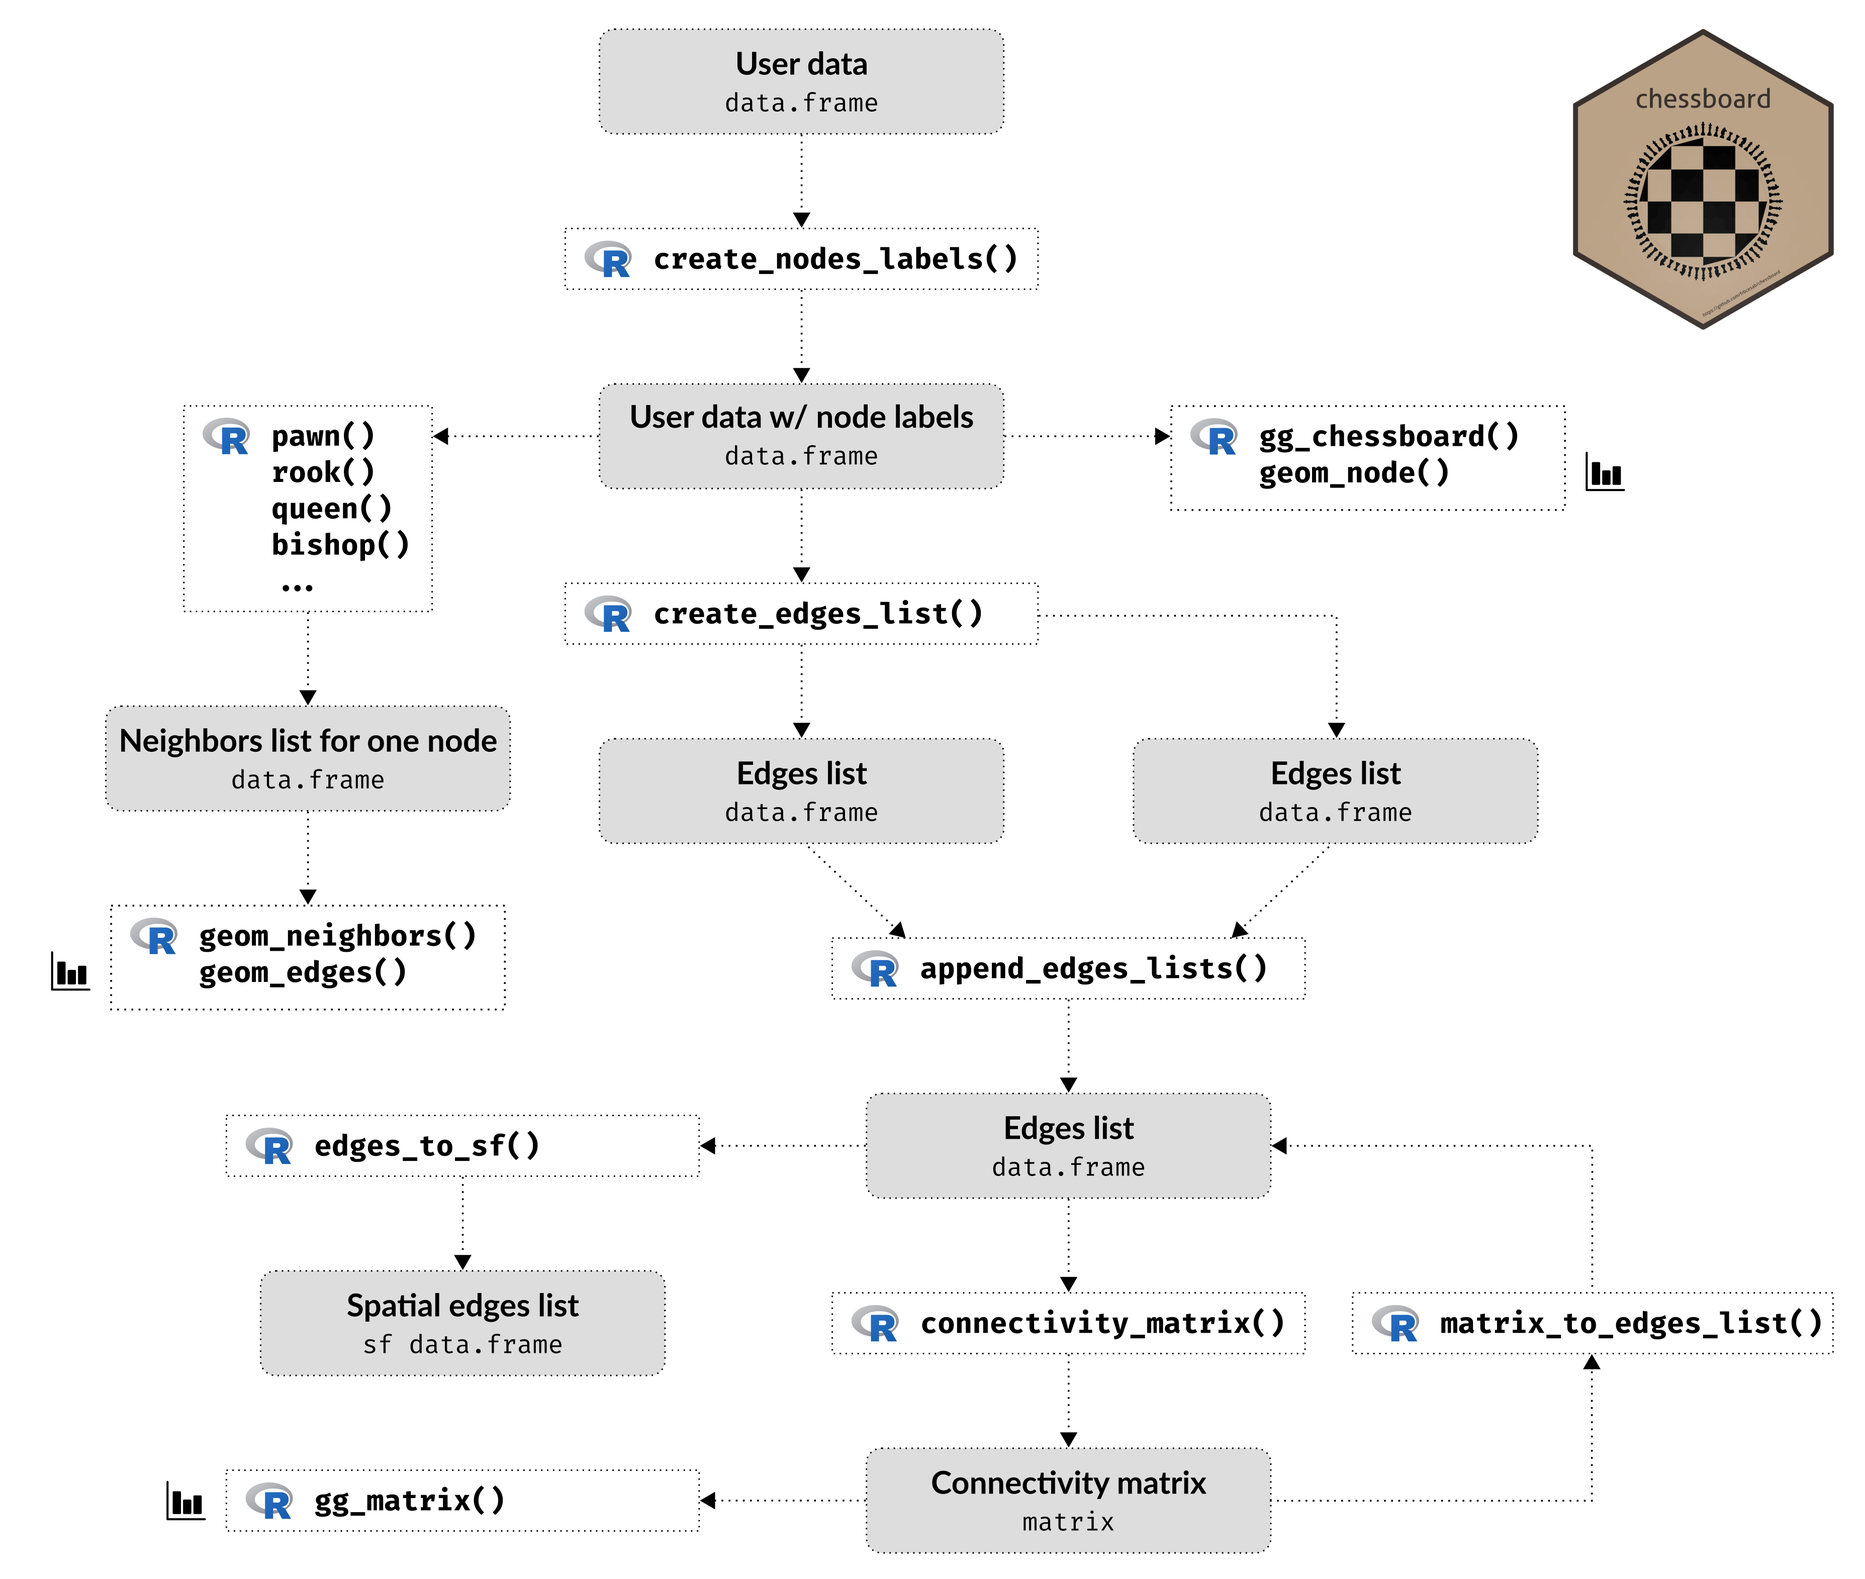
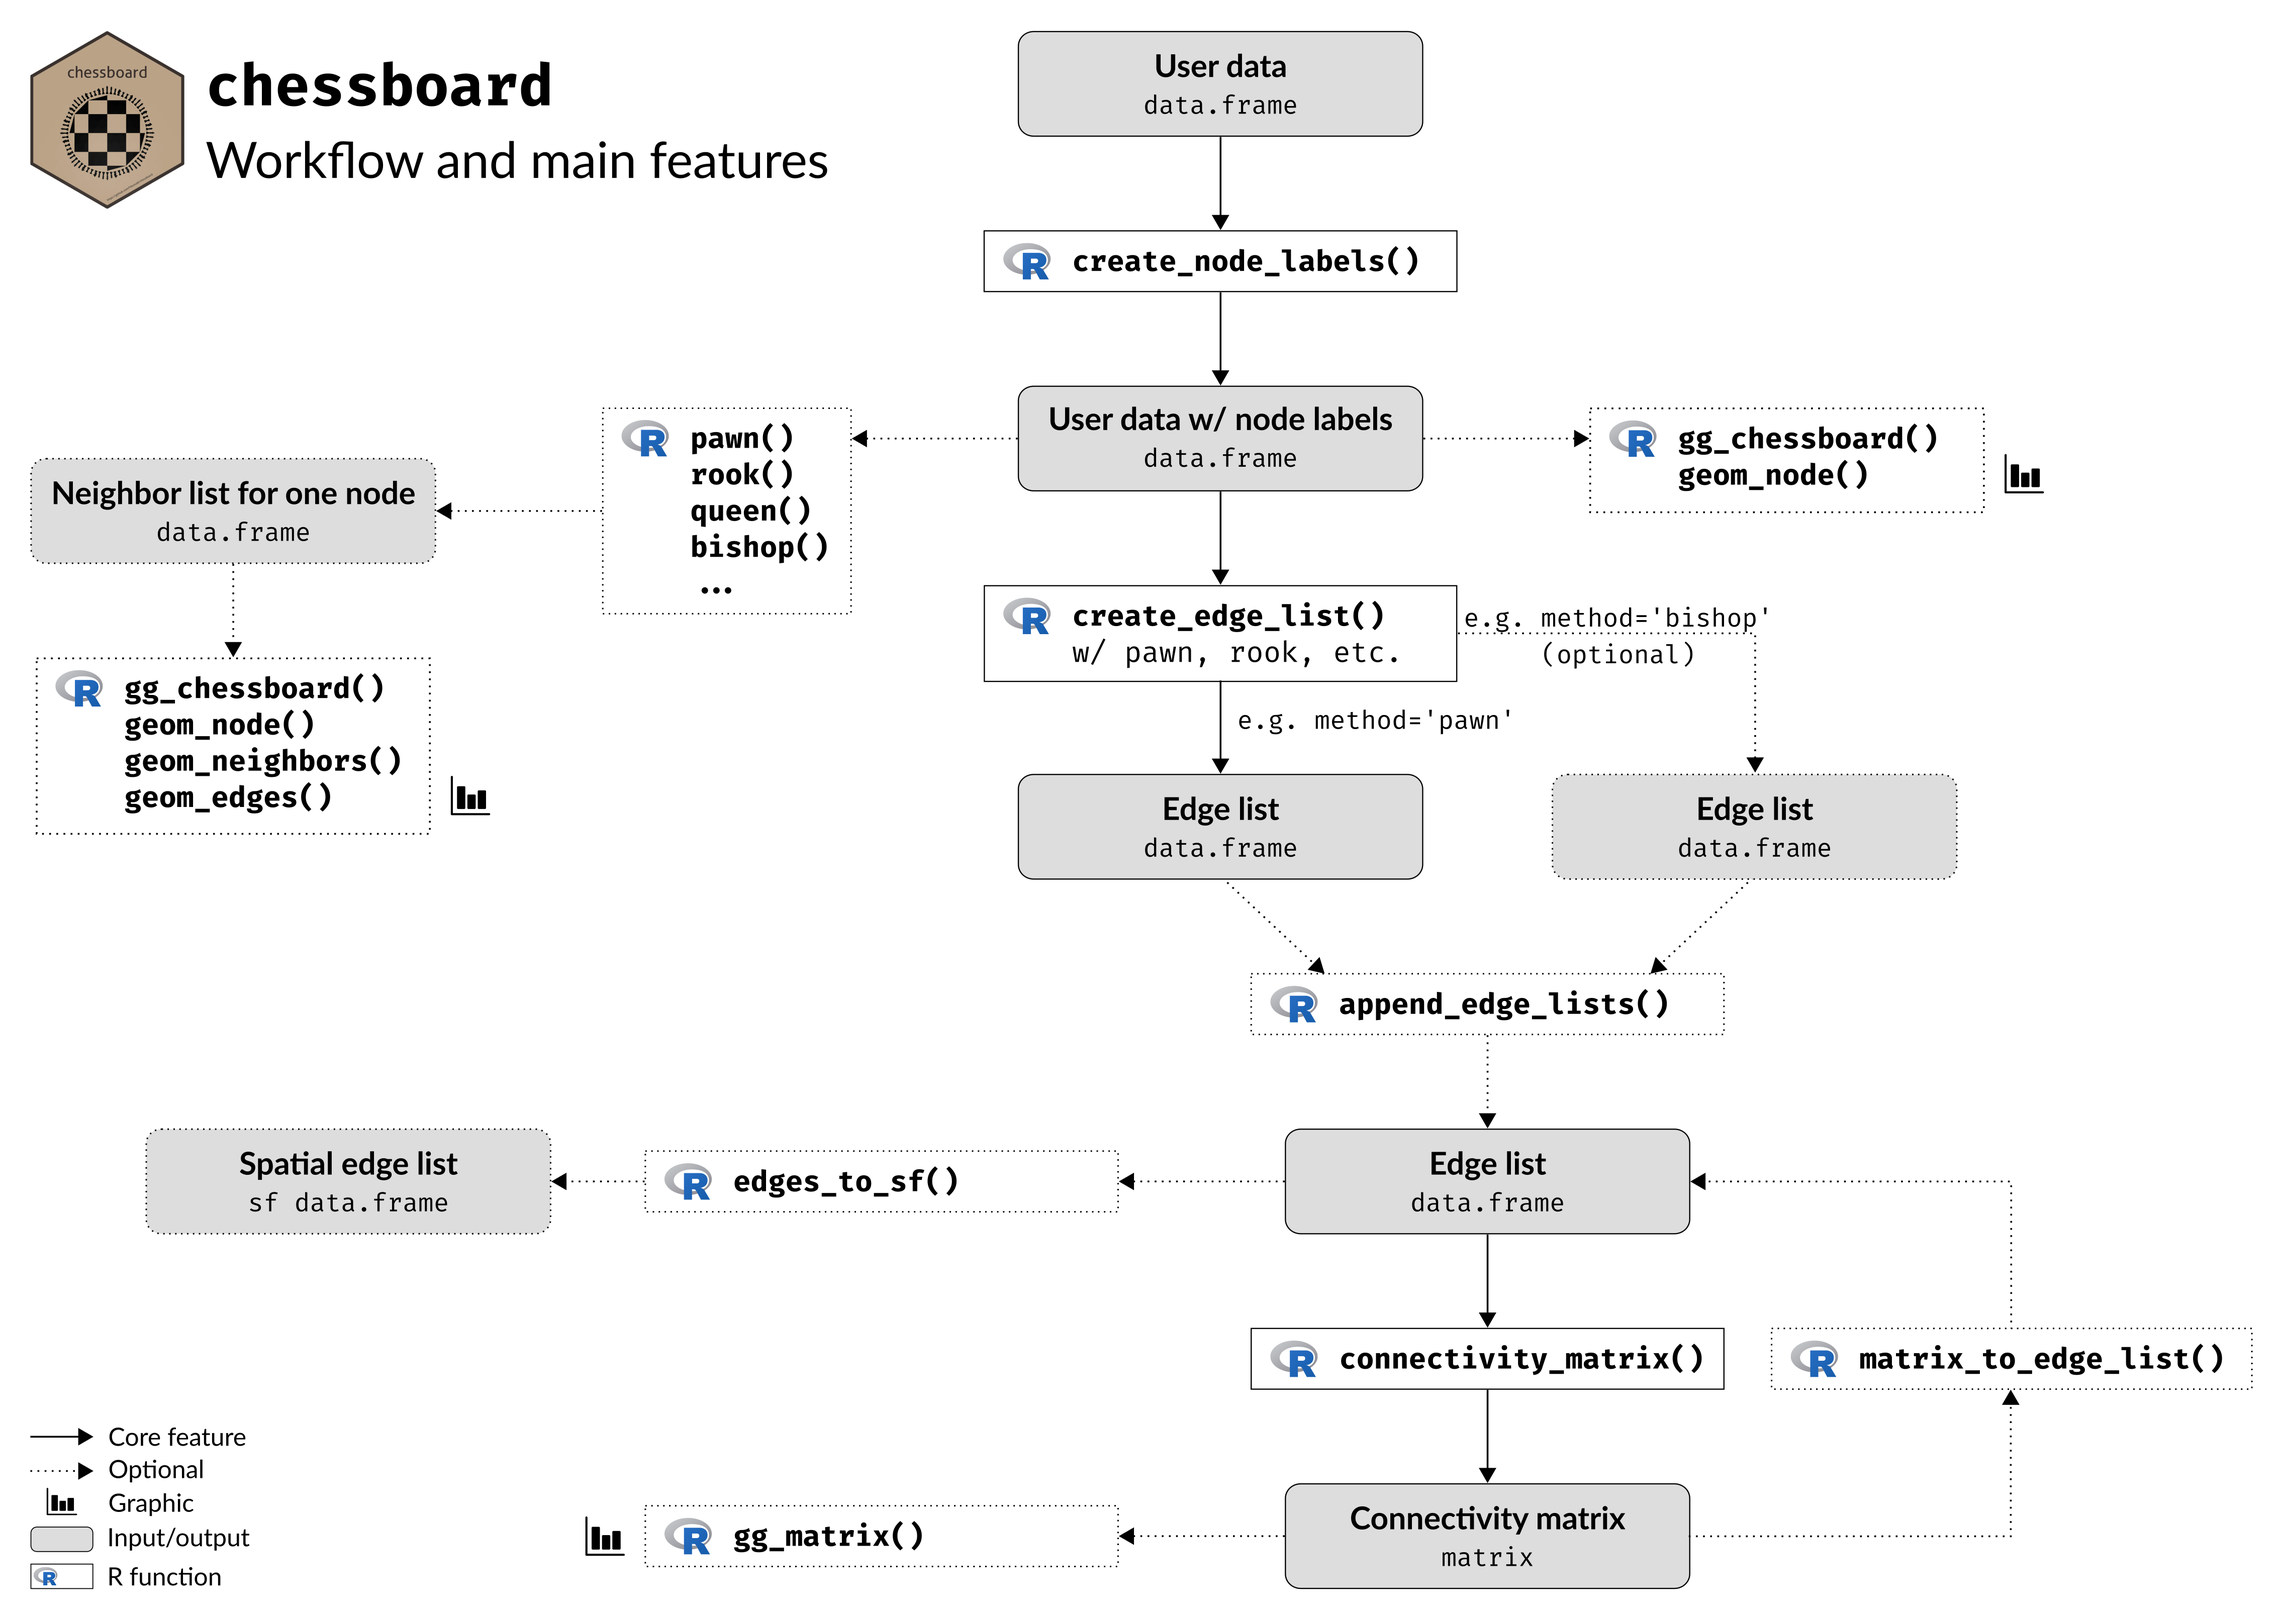
doc: improve package diagram

diff --git a/README.md b/README.md
@@ -23,9 +23,9 @@ create complex connectivity scenarios.
 
 `chessboard` can handle spatial networks, but it does not explicitly use
 geographical coordinates to find neighbors (it is not based on spatial
-distance). Instead, it identifies neighbors according to the **node
-labels** (i.e. the node positions on a two-dimension chessboard) and a
-specific method (pawn, fool, rook, bishop, knight, queen, wizard, etc.).
+distance). Instead, it identifies neighbors according to **node labels**
+(i.e. the node position on a two-dimension chessboard) and a specific
+method (pawn, fool, rook, bishop, knight, queen, wizard, etc.).
 
 It implements the following rules to detect neighbors and create edges:
 
@@ -44,9 +44,9 @@ It implements the following rules to detect neighbors and create edges:
 The main purpose of `chessboard` is to create various network objects,
 including:
 
-- the **nodes list**
-- the **edges list**
-- the **connectivity matrix**
+- **node list**
+- **edge list**
+- **connectivity matrix**
 
 `chessboard` also provides different plotting functions (all based on
 the [`ggplot2`](https://ggplot2.tidyverse.org/) package):
@@ -62,16 +62,16 @@ vignette for further details.
 
 ![](man/figures/diagramme.png)
 
-Finally, the package can also produce objects that can be used later in
+Finally, the package can also produce objects that will be used later in
 Moran’s Eigenvector Maps (MEM, Dray *et al.* 2006) and Asymetric
 Eigenvector Maps (AEM, Blanchet *et al.* 2008), methods available in the
 package [`adespatial`](https://cran.r-project.org/package=adespatial)
 (Dray *et al.* 2022):
 
-- the **edges weights matrix**
-- the **spatial weights matrix**
-- the **nodes by edges matrix**
-- the **edges weights vector**
+- **edges weights matrix**
+- **spatial weights matrix**
+- **nodes by edges matrix**
+- **edges weights vector**
 
 ## Installation
 
@@ -144,7 +144,7 @@ head(nodes, 12)
 #> 12  3-2        1        3       2
 ```
 
-The node labels are a combination of the transect identifier (i.e. the
+Node labels are a combination of the transect identifier (i.e. the
 position of the node on the x-axis of the chessboard) and the quadrat
 (i.e. the position of the node on the y-axis of the chessboard). The
 following figure locates the node `2-3` on the chessboard.
@@ -230,8 +230,8 @@ head(edges)
 #> 6  1-3 2-2
 ```
 
-This function returns an edges list, i.e. a two-column `data.frame`
-where a row corresponds to an edge.
+This function returns an edge list, i.e. a two-column `data.frame` where
+a row corresponds to an edge.
 
 Let’s compute the connectivity matrix of this undirected network.
 
@@ -278,7 +278,7 @@ al.* 2022) and [`igraph`](https://cran.r-project.org/package=igraph)
 ## Citation
 
 A companion paper will be published soon. In the meantime, if you want
-to use the package, please use the following citation:
+to use the package, please cite it as:
 
 > Casajus N (2023) chessboard: An R package for neighborhood and
 > connectivity in spatial networks. R package version 0.1.
